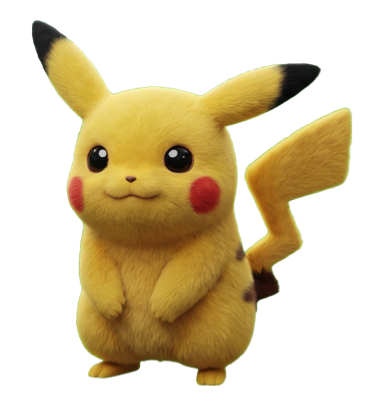
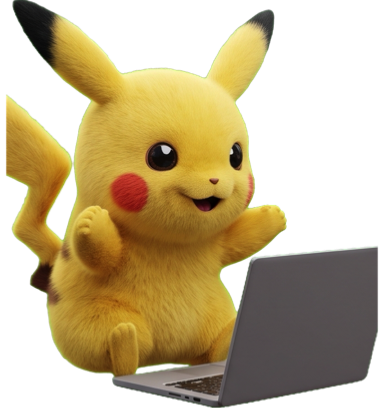
Pikachu typing animation: laptop frames in row 9, drop unused gaze rows
Typing now plays eight generated frames of Pikachu typing on a small laptop,
with typing speed setting the frame rate, instead of the drawn keyboard and
paw overlays. Cursor-away state uses the idle loop since this sprite set has
no head-turn frames.

diff --git a/Sources/main.swift b/Sources/main.swift
@@ -742,6 +742,7 @@ final class Companion: NSObject, NSApplicationDelegate {
                 thunderbolt(); tick(); precondition(actionRow == 8 && pet.sprite === images["8-0"] && pet.caption == "Pika… CHUUU!")
                 remindFocus(); tick(); precondition(pet.caption == "Hey. Time to focus." && pet.sprite === images["8-0"])
                 huge(); precondition(panel.frame.width == 384 && pet.frame.width == 384); large()
+                previewTyping(); tick(); precondition((0..<8).contains { pet.sprite === images["9-\($0)"] } && pet.typingPhase == nil)
                 print("PASS: ball game ran \(runs) runs of 20-30% of \(Int(width)) px, roamed up to \(Int(reach)) px from home, and came home; dance frames and bounce; focus reminder caption")
                 NSApp.terminate(nil)
             }
@@ -864,26 +865,19 @@ final class Companion: NSObject, NSApplicationDelegate {
             if actionRow == 6 { (row, col) = danceFrames[Int((now - actionStart) / 0.14) % danceFrames.count]; dancing = true }
             else { row = actionRow; col = Int((now - actionStart) / 0.14) % counts[row] }
         } else if typing.active(at: now) {
-            row = 10; col = 0
             let cadence = typing.cadence(at: now)
-            pet.typingPhase = Int(now / cadence)
+            row = 9; col = Int(now / cadence) % counts[9]
             if cadence < 0.1 { pet.caption = "Turbo paws" }
         } else if sleeping {
             row = 0; col = 1; pet.snoozing = true
             if let end = life.focusEnd { pet.caption = "Focus · \(max(0,Int(ceil((end-now)/60)))) min" }
-        } else if !paused {
-            // AppKit mouse and window coordinates both use a bottom-left origin,
-            // including negative coordinates on secondary displays.
-            let point = NSEvent.mouseLocation
-            let face = NSPoint(x: panel.frame.midX, y: panel.frame.minY + pet.frame.minY + pet.frame.height * 0.68)
-            if let d = direction(point.x - face.x, point.y - face.y) { row = 9 + d / 8; col = d % 8 }
         }
         if now < terminalUntil { pet.caption = terminalMessage }
         if now < walkUntil { pet.caption = "Stand up & take a short walk" }
         if now < focusUntil { pet.caption = "Hey. Time to focus." }
         pet.dancing = dancing
-        pet.gazeDirection = row >= 9 ? (row-9)*8+col : nil
-        pet.headphonesFitAvailable = row == 0 || row >= 9
+        pet.gazeDirection = nil
+        pet.headphonesFitAvailable = row == 0
         pet.sprite = images["\(row)-\(col)"]
     }
     @objc func toggleTerminal() {

diff --git a/README.md b/README.md
@@ -55,13 +55,13 @@ Everything is in the right-click menu, or under the paw in the menu bar.
 
 **Everyday behaviour**
 
-- **Typing.** Alternating paws on a little keyboard; faster typing means faster taps and “Turbo paws”. Stops 0.7 seconds after the last key.
+- **Typing.** Pikachu sits behind a little laptop and types with alternating paws; the faster you type, the faster it goes, up to “Turbo paws”. Stops 0.7 seconds after the last key.
 - **Naps** after 3 minutes without mouse or keyboard activity; any movement wakes it. **Nap now** forces one. Music mode prevents automatic naps.
 - **Homes.** Cushion, cardboard box, or none. Pikachu settles into the box when sleeping or being petted.
 - **Headphones.** Appear automatically while your Mac is playing audio (it can't tell music from notifications), or manually via music mode. The cups were positioned for the original cat sprites and can sit oddly on Pikachu.
 - **Sounds.** Optional purr and chime, off by default.
 - **Size.** Small, Large, Extra large, Huge. Size lasts for the session. **Reset position** brings Pikachu back on screen.
-- **Cursor tracking.** This sprite set has no head-turn frames, so Pikachu idles and blinks instead of following the pointer. The code and the **Pause cursor following** toggle remain for sprite sets that include the sixteen gaze frames.
+- **Cursor tracking.** This sprite set has no head-turn frames, so Pikachu idles and blinks instead of following the pointer. **Pause cursor following** therefore has no visible effect.
 
 ## Good to know
 
@@ -71,7 +71,7 @@ Everything is in the right-click menu, or under the paw in the menu bar.
 
 ## Privacy
 
-The keyboard monitors see timing only, never characters or key codes, and turning typing reactions off removes them. Cursor tracking reads the pointer position. Audio detection reads whether the output device is active; no microphone, no recording. Preferences stay on the Mac. The pet itself makes no network requests. Only the optional voice feature below talks to Google, and only while you have turned it on.
+The keyboard monitors see timing only, never characters or key codes, and turning typing reactions off removes them. Cursor position is read only for petting and cursor play. Audio detection reads whether the output device is active; no microphone, no recording. Preferences stay on the Mac. The pet itself makes no network requests. Only the optional voice feature below talks to Google, and only while you have turned it on.
 
 ## Terminal notifications (zsh, optional)
 
@@ -127,7 +127,7 @@ None of these prove that macOS has granted Accessibility; only you can check tha
 ## Source layout
 
 - `Sources/main.swift`: window, drawing, input monitoring, behaviour, terminals, self-tests. `Sources/GeminiVoice.swift`: voice.
-- `Resources/frames/`: 73 PNGs named `row-col.png`. Row 0 idle, 1 run right, 2 run left, 3 wave, 4 jump, 5 sad, 6 waiting, 7 busy, 8 Thunderbolt, 9–10 gaze slots that reuse idle.
+- `Resources/frames/`: 73 PNGs named `row-col.png`. Row 0 idle, 1 run right, 2 run left, 3 wave, 4 jump, 5 sad, 6 waiting, 7 busy, 8 Thunderbolt, 9 typing at the laptop, 10 spare slots that reuse idle.
 - `Resources/terminal/`: the xterm.js page and Python PTY helper. `integrations/`: the zsh hook and the `pikachu-claude` launcher. `scripts/`: build, run, test.
 
 ## Artwork and trademark
